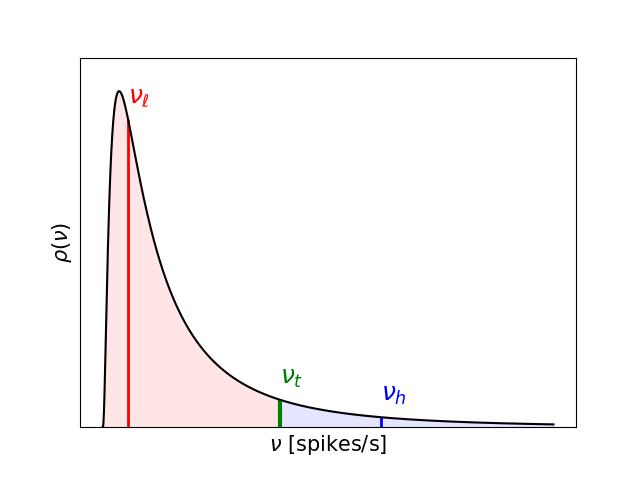
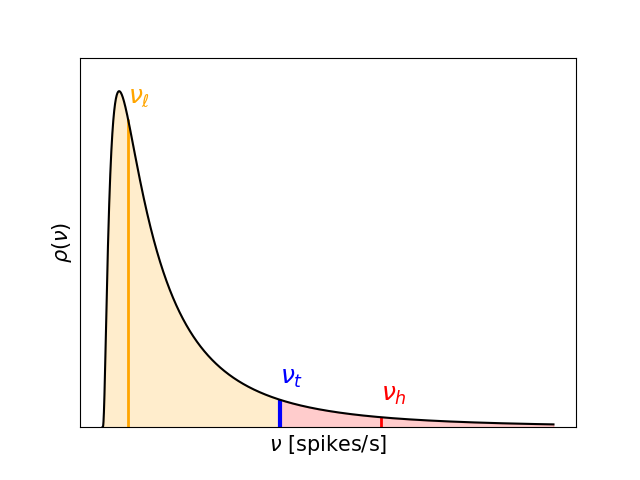
changed log-normal distribution scheme

Changed region(s): [[0.1562, 0.1875, 0.8438, 0.9062], [0.5938, 0.8125, 0.625, 0.8438]]

diff --git a/schemes/lnd.py b/schemes/lnd.py
@@ -29,15 +29,15 @@ def lognormal(x):
 
 plt.figure(1)
 plt.plot(x, lognormale, '-', color='black')
-plt.vlines(x_t, 0, lognormal(x_t), colors = "green", linestyles='solid', linewidth=3.0)
-plt.vlines(x_h, 0, lognormal(x_h), colors = "blue", linestyles='solid', linewidth=2.0)
-plt.vlines(x_l, 0, lognormal(x_l), colors = "red", linestyles='solid', linewidth=2.0)
-plt.fill_between(np.linspace(0, x_t, x_t*10001//10), lognormal(np.linspace(0, x_t, x_t*10001//10)), color='red', alpha=0.1)
-plt.fill_between(np.linspace(x_t, 10, (10-x_t)*10001//10), lognormal(np.linspace(x_t, 10, (10-x_t)*10001//10)), color='blue', alpha=0.1)
+plt.vlines(x_t, 0, lognormal(x_t), colors = "blue", linestyles='solid', linewidth=3.0)
+plt.vlines(x_h, 0, lognormal(x_h), colors = "red", linestyles='solid', linewidth=2.0)
+plt.vlines(x_l, 0, lognormal(x_l), colors = "orange", linestyles='solid', linewidth=2.0)
+plt.fill_between(np.linspace(0, x_t, x_t*10001//10), lognormal(np.linspace(0, x_t, x_t*10001//10)), color='orange', alpha=0.2)
+plt.fill_between(np.linspace(x_t, 10, (10-x_t)*10001//10), lognormal(np.linspace(x_t, 10, (10-x_t)*10001//10)), color='red', alpha=0.2)
 
-plt.text(x_t, lognormal(x_t)+0.025, r"$\nu_t$", color = "green", fontsize=18, fontweight='bold')
-plt.text(x_h, lognormal(x_h)+0.025, r"$\nu_h$", color = "blue", fontsize=18, fontweight='bold')
-plt.text(x_l, lognormal(x_l)+0.025, r"$\nu_{\ell}$", color = "red", fontsize=18, fontweight='bold')
+plt.text(x_t, lognormal(x_t)+0.025, r"$\nu_t$", color = "blue", fontsize=18, fontweight='bold')
+plt.text(x_h, lognormal(x_h)+0.025, r"$\nu_h$", color = "red", fontsize=18, fontweight='bold')
+plt.text(x_l, lognormal(x_l)+0.025, r"$\nu_{\ell}$", color = "orange", fontsize=18, fontweight='bold')
 
 plt.xticks([], [])
 plt.yticks([], [])
